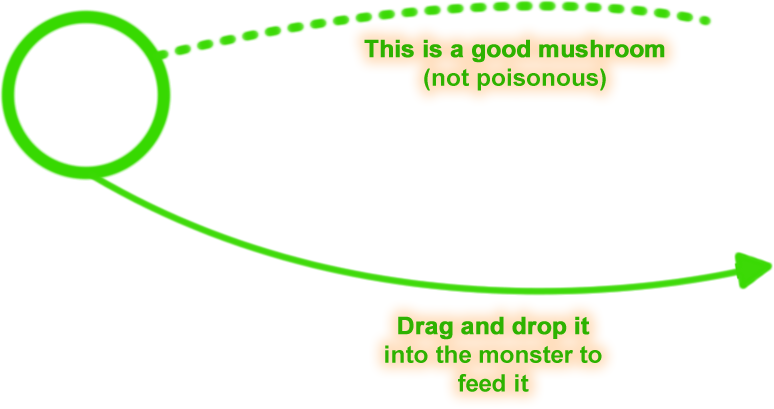
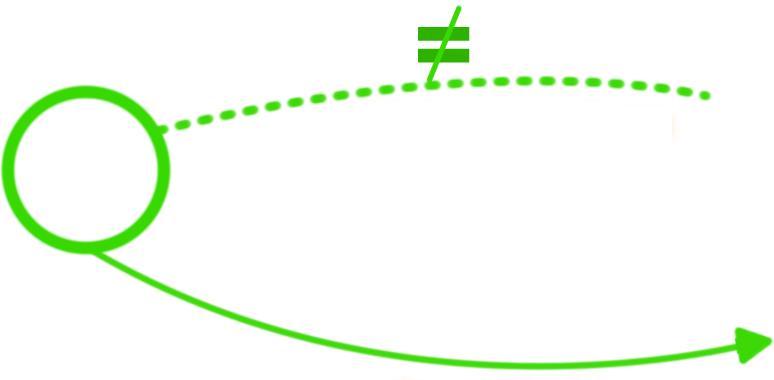
Improve tutorial.

Changed region(s): [[0.0, 0.0, 1.0, 0.9842]]

diff --git a/card-flipper/Tutorial.js b/card-flipper/Tutorial.js
@@ -12,6 +12,9 @@ var Tutorial = function () {
     var mInfoGood;
     var mInfoBad;
     var mInfoTime;
+    var mTextGood;
+    var mTextDrag;
+    var mTextBad;
 
     // Constructor
     Phaser.Group.call(this, Game);
@@ -32,15 +35,22 @@ Tutorial.STEP_EXPLAIN_TIME = 5;
 // Public methods
 
 Tutorial.prototype.init = function() {
-    this.mInfoGood = new Phaser.Sprite(Game, 35, 85, 'tutorial-good');
+    var aText;
+
+    this.mInfoGood = new Phaser.Sprite(Game, 35, 5, 'tutorial-good');
     this.mInfoBad = new Phaser.Sprite(Game, 296, 120, 'tutorial-bad');
     this.mInfoTime = new Phaser.Sprite(Game, 45, 85, 'tutorial-time');
+
+    this.mTextGood = new Phaser.Text(Game, Game.world.centerX - 220, 155, 'You must feed the monster with mushrooms. Choose the ones different from the poisonous indication.', {fontSize: 26, fill: '#2DB200', align: 'center', wordWrap: true, wordWrapWidth: 450 });
+    this.mTextDrag = new Phaser.Text(Game, Game.world.centerX - 185, Game.world.centerY + 10, 'Drag this safe mushroom into the monster.', {fontSize: 30, fill: '#2DB200', align: 'center', wordWrap: true, wordWrapWidth: 400 });
 
     this.mInfoGood.visible = false;
     this.mInfoBad.visible = false;
     this.mInfoTime.visible = false;
 
     this.add(this.mInfoGood);
+    this.add(this.mTextGood);
+    this.add(this.mTextDrag);
     this.add(this.mInfoBad);
     this.add(this.mInfoTime);
 };
@@ -99,9 +109,11 @@ Tutorial.prototype.update = function() {
                     this.getPlayState().getHud().getQuestionDialog()
                 ], Game.world.children);
 
-                this.mInfoGood.visible = true;
-                this.mInfoGood.alpha = 1;
-                Game.add.tween(this.mInfoGood).to({alpha: 0.5}, 2000, Phaser.Easing.Linear.None, true, 0, -1, true).start();
+                this.mInfoGood.visible = true; this.mInfoGood.alpha = 1;
+                this.mTextGood.visible = true; this.mTextGood.alpha = 1;
+                this.mTextDrag.visible = true; this.mTextDrag.alpha = 1;
+
+                Game.add.tween(this.mTextDrag).to({alpha: 0.3}, 500, Phaser.Easing.Linear.None, true, 0, -1, true).start();
             }
 
             // The player is understanding how to drag cards.
@@ -111,6 +123,8 @@ Tutorial.prototype.update = function() {
                 // The player got it! :D
                 mGoodCard.alpha = 0.2;
                 this.mInfoGood.destroy();
+                this.mTextGood.destroy();
+                this.mTextDrag.destroy();
                 this.stepTo(Tutorial.STEP_DRAG_BAD_CARD, 1000);
             }
             break;

diff --git a/card-flipper/LoadState.js b/card-flipper/LoadState.js
@@ -19,7 +19,7 @@ var LoadState = function() {
 		// Assets made by myself
 		Game.load.spritesheet('right-wrong', 'assets/right_wrong.png', 145, 207); // By Fernando Bevilacqua, public domain
 		Game.load.image('pixel', 'assets/pixel.png'); // By Fernando Bevilacqua, public domain
-		Game.load.image('tutorial-good', 'assets/tutorial_good.png?1'); // By Fernando Bevilacqua, public domain
+		Game.load.image('tutorial-good', 'assets/tutorial_good.png?2'); // By Fernando Bevilacqua, public domain
 		Game.load.image('tutorial-bad', 'assets/tutorial_bad.png?2'); // By Fernando Bevilacqua, public domain
 		Game.load.image('tutorial-time', 'assets/tutorial_time.png'); // By Fernando Bevilacqua, public domain
 
